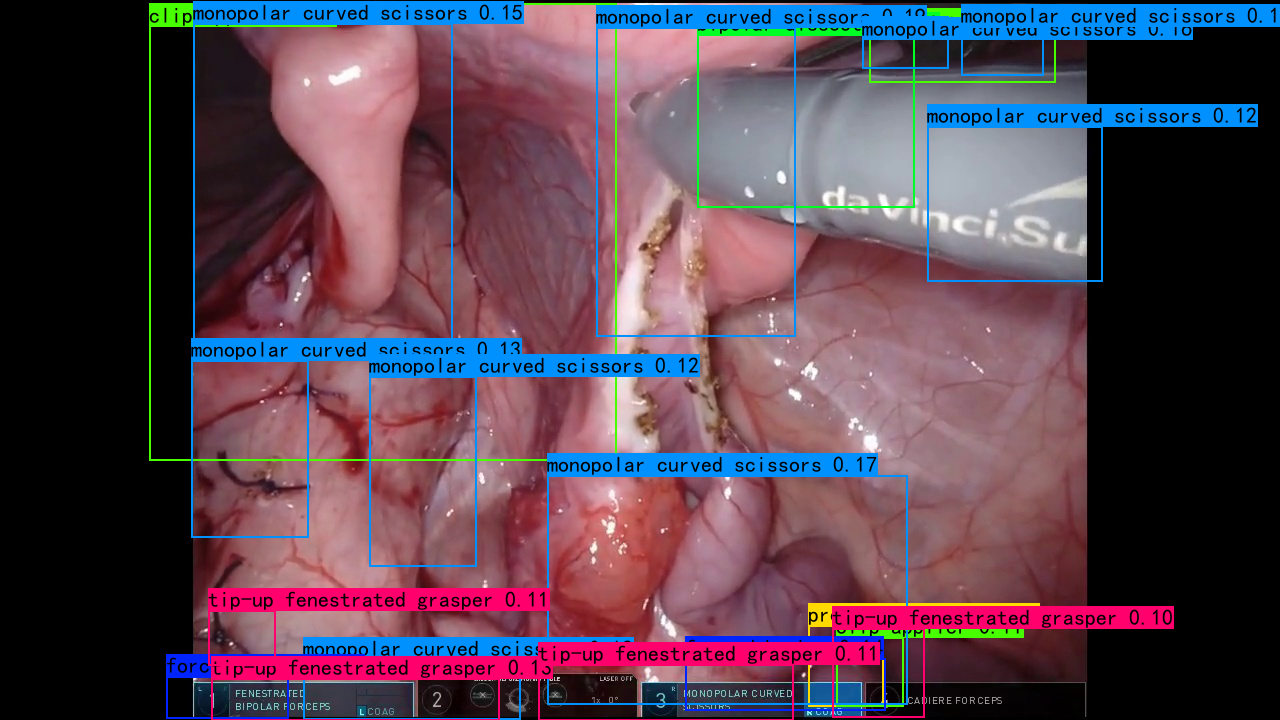
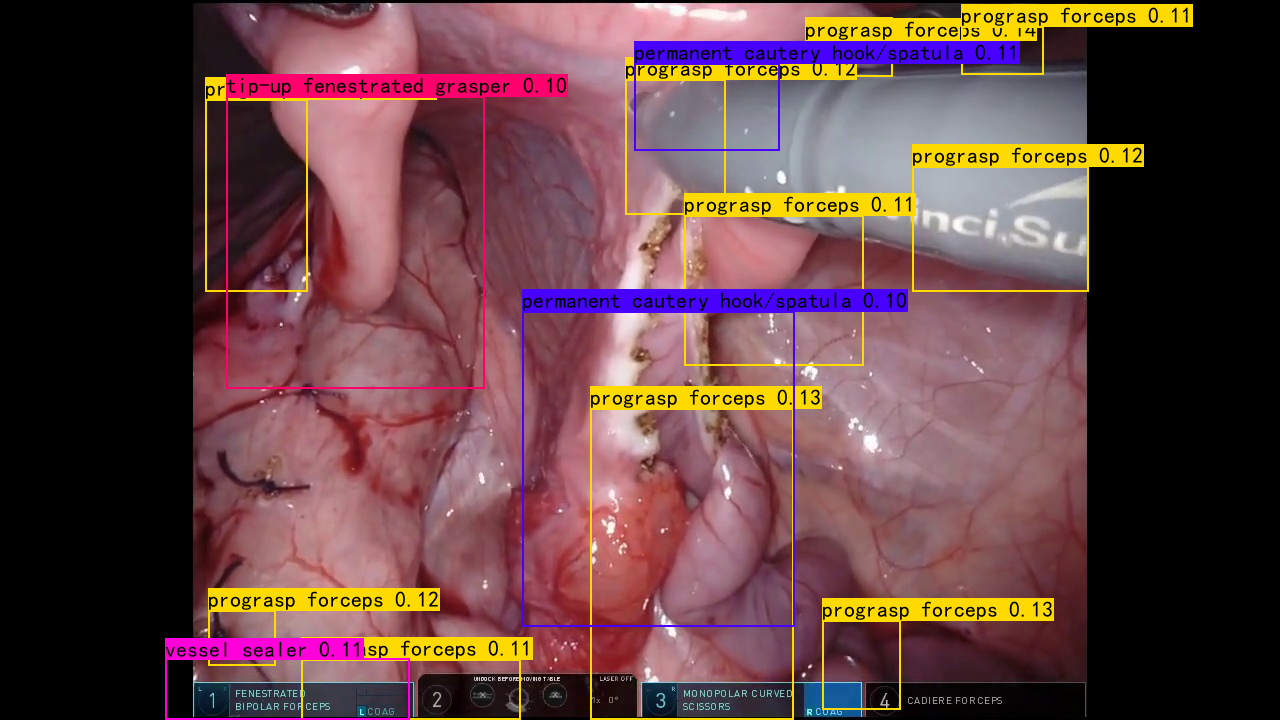
fetch 3 box by confidence

diff --git a/tools/mist_train.py b/tools/mist_train.py
@@ -63,8 +63,6 @@ def mist_train(model, train_dataloader, epoches):
 
     train_util = FasterRCNNTrainer(model, optimizer).to(device)
     for epoch in range(epoches):
-        torch.save(model.state_dict(), os.path.join(save_dir, "last_epoch_weights.pth"))
-        print("model saved!")
         total_loss = 0
         rpn_loc_loss = 0
         rpn_cls_loss = 0
@@ -107,7 +105,7 @@ def mist_train(model, train_dataloader, epoches):
                 roi_cls_locs, roi_scores, rois,_ = model(image_data) #取出roi预测框和概率
                 # 利用classifier的预测结果对建议框进行解码，获得预测框
                 with torch.no_grad():
-                    results = decodebox.forward(roi_cls_locs, roi_scores, rois, (720, 1280), image_shape, nms_iou = 0.3, confidence = 0.1)
+                    results = decodebox.forward(roi_cls_locs, roi_scores, rois, (720, 1280), image_shape, nms_iou = 0.3, confidence = 0.01)
 
                 if len(results[0]) > 0:
                     # top_label = np.array(results[0][:, 5], dtype='int32') #[0, 3]的类型，代表预测框的编号
@@ -134,11 +132,11 @@ def mist_train(model, train_dataloader, epoches):
                         pseudo_conf = np.append(pseudo_conf, top_conf[i])
                         
                 # 取出概率最高的3个
-                #sorted_indices = np.argsort(pseudo_conf)[::-1] # 按概率排序
-                #sorted_indices = sorted_indices[:3] # 取概率最高的3个，不满3个取全部
+                sorted_indices = np.argsort(pseudo_conf)[::-1] # 按概率排序
+                sorted_indices = sorted_indices[:3] # 取概率最高的3个，不满3个取全部
                 
-                #pseude_box = pseude_box[sorted_indices]
-                #pseudo_label = pseudo_label[sorted_indices]
+                pseude_box = pseude_box[sorted_indices]
+                pseudo_label = pseudo_label[sorted_indices]
                         
                 pseude_boxes.append(np.array(pseude_box))
                 pseudo_labels.append(pseudo_label)
